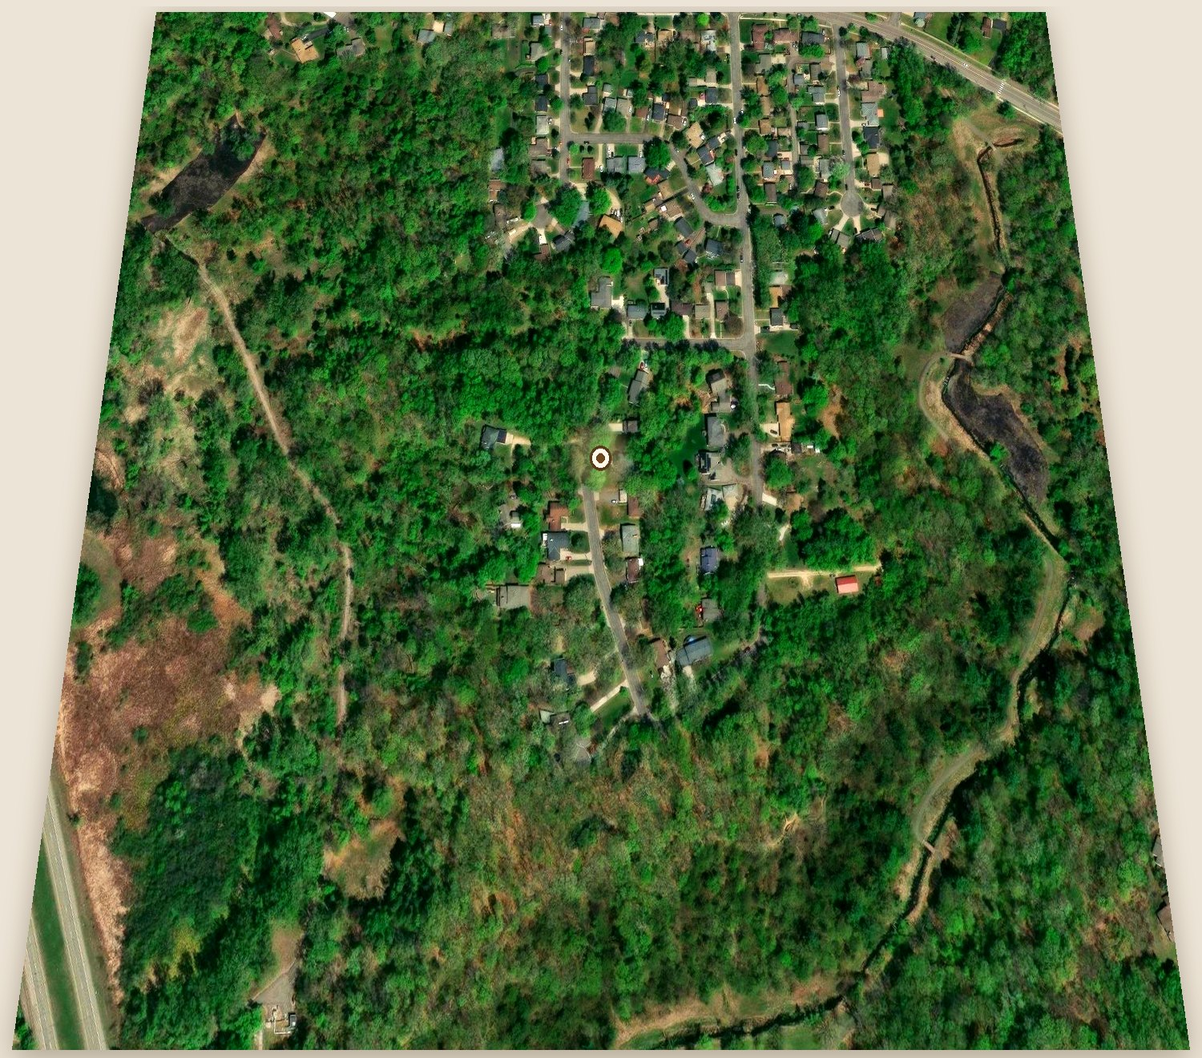
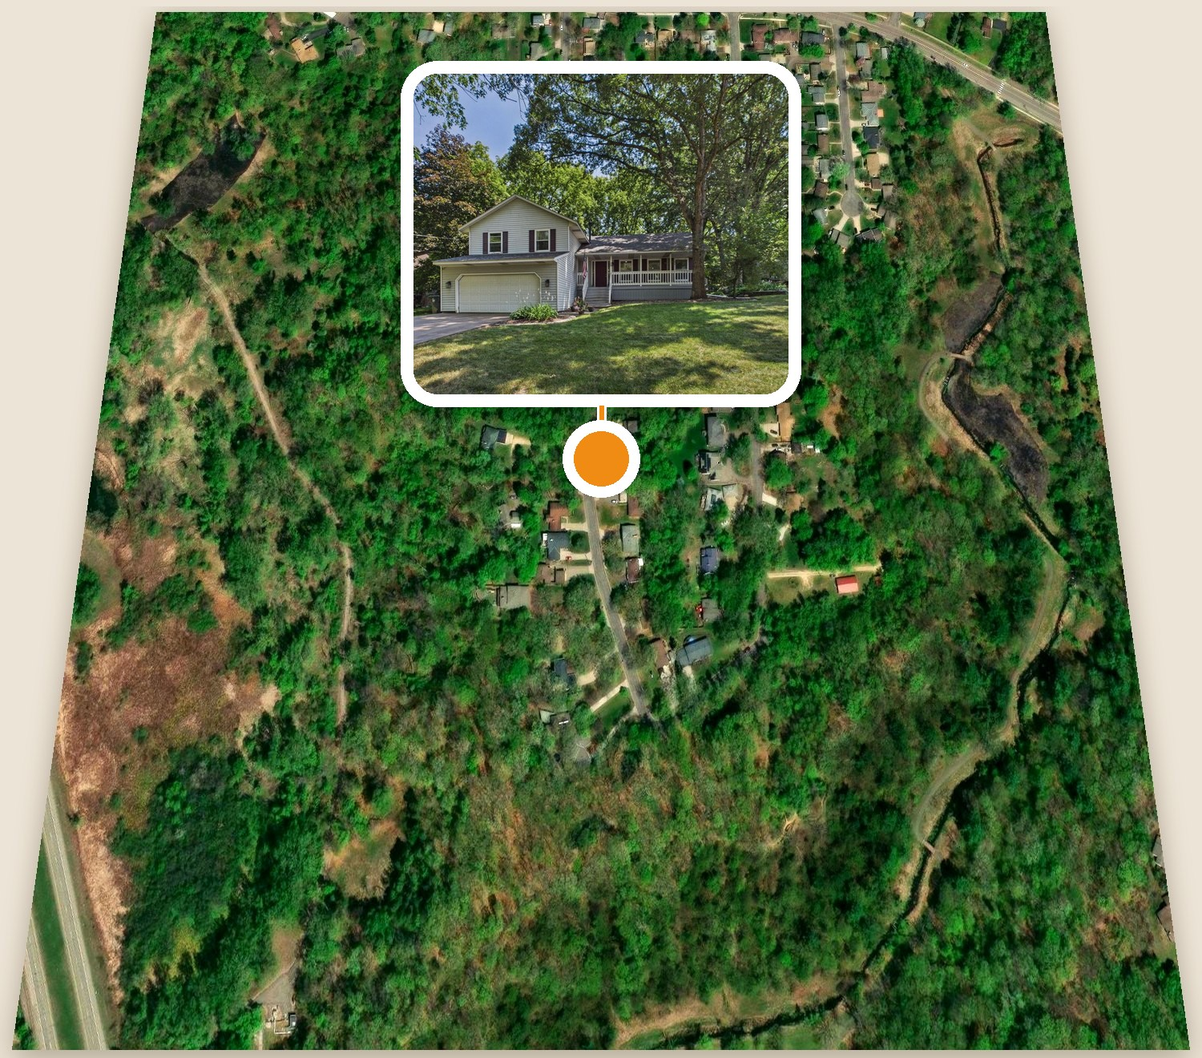
Replace the Battle Creek tour map with a still map (#10)
* Replace the Battle Creek tour map with a still map.

The Leaflet map and the lists under it are gone, so a swipe scrolls the page and each pin jumps to its card. The tour home aerial has a larger callout, and the inside video no longer calls the furniture virtual.

* Show the house itself on the tour home aerial.

The callout uses the front of the house from the page hero, with the amber pin and a short line marking the spot on the map.

* Show the real front of 30 S B St on the tour home map.

The callout was a neighbor from the fall street photo. The thumbnail is now the cream two-story with the garage and porch.

---------

Changed region(s): [[0.3067, 0.0311, 0.6747, 0.4659]]

diff --git a/battle-creek-saint-paul/index.html b/battle-creek-saint-paul/index.html
@@ -874,8 +874,15 @@ section.hero{min-height:0;padding-top:36px;padding-bottom:28px}
 .bc-map-wrap{border:1px solid #C9A877;border-radius:14px;overflow:hidden;background:#E3DAC6}
 .bc-map-bar{background:#1F201C;color:#FAF7EF;font:600 15px/1.35 Inter,sans-serif;padding:12px 16px}
 .bc-map-bar b{color:#C9A877;font-weight:600}
-#bcMap{height:440px;background:#E3DAC6}
-@media(min-width:800px){#bcMap{height:520px}}
+#bcStillMap{width:100%;height:auto;display:block;background:#E4DACA;touch-action:pan-y}
+#bcStillMap a:focus{outline:none}
+#bcStillMap a:focus .lbl,#bcStillMap a:focus circle{stroke:#C9A877}
+#bcStillMap .lbl{font-family:Inter,sans-serif;font-weight:700;font-size:28px;fill:#1F201C;paint-order:stroke;stroke:#fff;stroke-width:6px;stroke-linejoin:round;pointer-events:none}
+#bcStillMap .lbl.light{fill:#FAF7EF;stroke:#2A2116}
+#bcStillMap .num{font-family:Inter,sans-serif;font-weight:700;font-size:26px;fill:#FAF7EF;text-anchor:middle;dominant-baseline:central;pointer-events:none}
+#bcStillMap circle,#bcStillMap path,#bcStillMap text{pointer-events:none}
+#bcStillMap a{cursor:pointer}
+.es-card[id]{scroll-margin-top:76px;scroll-margin-bottom:96px}
 .bc-map-note{font-size:12px;line-height:1.5;color:#4D4839;margin:8px 2px 0}
 .bc-card{display:grid;background:#FAF7EF;border:1px solid #C9A877;border-radius:14px;overflow:hidden;margin-top:14px}
 @media(min-width:800px){.bc-card{grid-template-columns:1.15fr .85fr}}
@@ -920,11 +927,6 @@ section.hero{min-height:0;padding-top:36px;padding-bottom:28px}
 .es-owners figcaption{display:none}
 .bc-paint{display:flex;align-items:center;gap:8px;margin-top:12px;font-size:14px;line-height:1.45;color:#4D4839}
 .swatch{width:22px;height:22px;border-radius:4px;border:1px solid rgba(31,32,28,.25);flex:none}
-.bc-pin{background:#6E5228;color:#FAF7EF;border:2px solid #FAF7EF;border-radius:50%;font:700 13px/24px Inter,sans-serif;text-align:center;box-shadow:0 1px 4px rgba(31,32,28,.4)}
-.bc-pin.food{background:#1F201C}
-.bc-pin.home{background:#C9A877;color:#1F201C;border-radius:4px}
-.bc-pin.on{box-shadow:0 0 0 3px #C9A877}
-#bcMap img{max-width:none}
 @media(max-width:760px){.bc-places{padding-left:16px;padding-right:16px}}
 </style>
 
@@ -1019,24 +1021,91 @@ section.hero{min-height:0;padding-top:36px;padding-bottom:28px}
 
   <div class="bc-map-wrap">
     <div class="bc-map-bar">From 30 South B Street <b>· the places on the tour</b></div>
-    <div id="bcMap" role="region" aria-label="Map of places from the Battle Creek tour"></div>
+    <svg id="bcStillMap" viewBox="0 0 720 760" xmlns="http://www.w3.org/2000/svg" role="group" aria-label="Still map of places on the Battle Creek tour">
+  <rect width="720" height="760" fill="#E4DACA"/>
+  <path d="M337.7,449.5 L327.0,426.8 L342.1,367.0 L342.8,330.6 L331.4,293.0 L295.3,230.7 L400.0,187.1 L397.5,135.1 L406.8,123.5 L406.5,88.8 L426.9,88.5 L427.0,63.5 L405.9,63.4 L406.0,37.8 L626.7,37.9 L626.7,72.0 L626.8,106.1 L626.9,140.1 L627.0,174.2 L627.3,211.8 L627.6,245.8 L627.8,279.9 L628.1,314.0 L628.1,348.0 L628.1,382.0 L628.1,416.0 L628.2,450.0 L628.8,484.1 L629.4,518.1 L629.9,552.0 L630.3,585.9 L630.8,619.6 L631.2,653.4 L631.3,687.2 L631.3,721.0 L598.9,721.1 L566.6,721.1 L545.0,721.2 L541.4,721.2 L534.3,721.2 L530.8,721.2 L501.7,689.8 L437.0,654.3 L389.7,585.6 L370.2,517.5 L337.7,449.5 Z" fill="#6E5228" stroke="#FAF7EF" stroke-width="3"/>
+  <path d="M300,508 C477,332 497,189 517,159" fill="none" stroke="#C9A877" stroke-width="3"/>
+  <circle cx="517.1" cy="158.7" r="7" fill="#F08C14" stroke="#fff" stroke-width="3"/>
+  <rect x="32" y="292" width="276" height="432" rx="18" fill="#F6F1E8" stroke="#C9A877" stroke-width="3"/>
+  <a href="#card-ocampo" aria-label="1, Los Ocampo">
+    <rect x="32" y="292" width="276" height="108" fill="transparent"/>
+    <circle cx="78" cy="346.0" r="24" fill="#1F201C" stroke="#fff" stroke-width="4"/>
+    <text class="num" x="78" y="347.0">1</text>
+    <text class="lbl" x="116" y="354.0">Los Ocampo</text>
+  </a><a href="#card-teahouse" aria-label="2, Tea House">
+    <rect x="32" y="400" width="276" height="108" fill="transparent"/>
+    <circle cx="78" cy="454.0" r="24" fill="#1F201C" stroke="#fff" stroke-width="4"/>
+    <text class="num" x="78" y="455.0">2</text>
+    <text class="lbl" x="116" y="462.0">Tea House</text>
+  </a><a href="#card-sabores" aria-label="3, Sabores">
+    <rect x="32" y="508" width="276" height="108" fill="transparent"/>
+    <circle cx="78" cy="562.0" r="24" fill="#1F201C" stroke="#fff" stroke-width="4"/>
+    <text class="num" x="78" y="563.0">3</text>
+    <text class="lbl" x="116" y="570.0">Sabores</text>
+  </a><a href="#card-hatien" aria-label="4, Ha Tien">
+    <rect x="32" y="616" width="276" height="108" fill="transparent"/>
+    <circle cx="78" cy="670.0" r="24" fill="#1F201C" stroke="#fff" stroke-width="4"/>
+    <text class="num" x="78" y="671.0">4</text>
+    <text class="lbl" x="116" y="678.0">Ha Tien</text>
+  </a>
+
+<a href="#card-regions" aria-label="Regions Hospital">
+    <rect x="40" y="78" width="200" height="64" fill="transparent"/>
+    <circle cx="53.8" cy="108" r="18" fill="#1F201C" opacity="0.18"/>
+    <circle cx="53.8" cy="106" r="15" fill="#fff"/>
+    <circle cx="53.8" cy="106" r="9" fill="#1F201C"/>
+    <text class="lbl" x="80" y="114">Regions</text>
+  </a>
+  <a href="#card-downtown" aria-label="Downtown St. Paul">
+    <rect x="24" y="184" width="220" height="64" fill="transparent"/>
+    <circle cx="38.3" cy="214" r="18" fill="#1F201C" opacity="0.18"/>
+    <circle cx="38.3" cy="212" r="15" fill="#fff"/>
+    <circle cx="38.3" cy="212" r="9" fill="#1F201C"/>
+    <text class="lbl" x="66" y="220">Downtown</text>
+  </a>
+  <a href="#card-park" aria-label="Battle Creek Regional Park">
+    <rect x="560" y="168" width="150" height="100" fill="transparent"/>
+    <circle cx="680.7" cy="254" r="18" fill="#1F201C" opacity="0.18"/>
+    <circle cx="680.7" cy="252" r="15" fill="#fff"/>
+    <circle cx="680.7" cy="252" r="9" fill="#1F201C"/>
+    <text class="lbl light" text-anchor="middle" x="640" y="210">The park</text>
+  </a>
+  <a href="#card-rec" aria-label="Battle Creek Recreation Center">
+    <rect x="500" y="250" width="180" height="100" fill="transparent"/>
+    <circle cx="576.7" cy="271" r="18" fill="#1F201C" opacity="0.18"/>
+    <circle cx="576.7" cy="269" r="15" fill="#fff"/>
+    <circle cx="576.7" cy="269" r="9" fill="#fff"/>
+    <circle cx="576.7" cy="269" r="6" fill="#1F201C"/>
+    <text class="lbl light" x="520" y="328">Rec center</text>
+  </a>
+  <a href="#card-highwood" aria-label="Highwood">
+    <rect x="390" y="440" width="220" height="90" fill="transparent"/>
+    <circle cx="565.6" cy="495" r="18" fill="#1F201C" opacity="0.18"/>
+    <circle cx="565.6" cy="493" r="15" fill="#fff"/>
+    <circle cx="565.6" cy="493" r="9" fill="#1F201C"/>
+    <text class="lbl light" text-anchor="end" x="546" y="470">Highwood</text>
+  </a>
+  <a href="#card-pigs-eye" aria-label="Pig’s Eye Lake">
+    <rect x="360" y="510" width="200" height="90" fill="transparent"/>
+    <circle cx="472.8" cy="536" r="18" fill="#1F201C" opacity="0.18"/>
+    <circle cx="472.8" cy="534" r="15" fill="#fff"/>
+    <circle cx="472.8" cy="534" r="9" fill="#1F201C"/>
+    <text class="lbl light" text-anchor="middle" x="430" y="590">Pig’s Eye</text>
+  </a>
+  <a href="#card-tour-home" aria-label="The tour home, 30 South B Street">
+    <rect x="300" y="168" width="220" height="120" fill="transparent"/>
+    <circle cx="488.4" cy="256" r="38" fill="#1F201C" opacity="0.22"/>
+    <circle cx="488.4" cy="252" r="32" fill="#fff"/>
+    <circle cx="488.4" cy="252" r="22" fill="#F08C14"/>
+    <text class="lbl light" text-anchor="end" x="452" y="200">30 South B</text>
+  </a>
+  <a href="#card-streets" aria-label="The streets around South B">
+    <rect x="310" y="320" width="180" height="52" fill="transparent"/>
+    <text class="lbl light" x="324" y="352">The streets</text>
+  </a>
+</svg>
   </div>
-  <p class="bc-map-note">Drive times are by car from 30 South B Street, the way the tour says them. Map data &copy; OpenStreetMap contributors. Shaded views use USGS and Esri imagery.</p>
-
-  <article class="bc-card" id="bcCard" aria-live="polite">
-    <div class="bc-card-media" id="bcCardMedia"></div>
-    <div class="bc-card-body">
-      <p class="bc-card-kicker" id="bcCardKicker"></p>
-      <h3 id="bcCardTitle"></h3>
-      <p class="bc-card-addr" id="bcCardAddr"></p>
-      <p class="bc-card-text" id="bcCardText"></p>
-    </div>
-  </article>
-
-  <h3 class="bc-legend-title">Suburban Avenue, numbered</h3>
-  <ol class="bc-legend" id="bcFoodLegend"></ol>
-  <h3 class="bc-legend-title">Also on the drive</h3>
-  <div class="bc-also" id="bcAlso"></div>
+  <p class="bc-map-note">Drive times are by car from 30 South B Street, the way the tour says them. Shaded views use USGS and Esri imagery.</p>
 </section>
 
 <section class="es" id="the-places">
@@ -1055,7 +1124,7 @@ section.hero{min-height:0;padding-top:36px;padding-bottom:28px}
         <p class="es-line">If you&rsquo;re curious about this house, let me know.</p>
       </div>
     </article>
-    <article class="es-card">
+    <article class="es-card" id="card-streets">
       <div class="es-media"><img src="/battle-creek-saint-paul/img/battle-creek-fall-street-2.jpg" width="1920" height="1080" alt="Fall trees and wide lawns on a Battle Creek street" loading="lazy" decoding="async"></div>
       <div class="es-body">
         <h3 class="es-name">The streets around South B</h3>
@@ -1063,7 +1132,7 @@ section.hero{min-height:0;padding-top:36px;padding-bottom:28px}
         <p class="es-line">Big lots. Old oaks. Fall color.</p>
       </div>
     </article>
-    <article class="es-card">
+    <article class="es-card" id="card-park">
       <div class="es-media"><img src="/battle-creek-saint-paul/img/battle-creek-park-winter-trail.jpg" width="1800" height="1200" alt="A snowy trail through the trees at Battle Creek Regional Park" loading="lazy" decoding="async"></div>
       <div class="es-body">
         <h3 class="es-name">Battle Creek Regional Park</h3>
@@ -1071,7 +1140,7 @@ section.hero{min-height:0;padding-top:36px;padding-bottom:28px}
         <p class="es-line">Trails, skiing, and a sledding hill.</p>
       </div>
     </article>
-    <article class="es-card">
+    <article class="es-card" id="card-rec">
       <div class="es-media"><img src="/battle-creek-saint-paul/img/battle-creek-rec-center.jpg" width="1580" height="889" alt="Battle Creek Community Recreation Center from above" loading="lazy" decoding="async"></div>
       <div class="es-body">
         <h3 class="es-name">Battle Creek Recreation Center</h3>
@@ -1079,7 +1148,7 @@ section.hero{min-height:0;padding-top:36px;padding-bottom:28px}
         <p class="es-line">The rec center and the neighborhood schools.</p>
       </div>
     </article>
-    <article class="es-card">
+    <article class="es-card" id="card-regions">
       <div class="es-media"><img src="/battle-creek-saint-paul/img/regions-hospital.jpg" width="1800" height="1212" alt="The Regions Hospital building and its HealthPartners sign" loading="lazy" decoding="async"></div>
       <div class="es-body">
         <h3 class="es-name">Regions Hospital</h3>
@@ -1087,7 +1156,7 @@ section.hero{min-height:0;padding-top:36px;padding-bottom:28px}
         <p class="es-line">St. Paul&rsquo;s Level I trauma center.</p>
       </div>
     </article>
-    <article class="es-card es-wide">
+    <article class="es-card es-wide" id="card-downtown">
       <div class="es-media es-media-wide"><img src="/battle-creek-saint-paul/img/downtown-st-paul-skyline.jpg" width="1800" height="1001" alt="Downtown St. Paul skyline, seen across the Mississippi" loading="lazy" decoding="async"></div>
       <div class="es-body">
         <h3 class="es-name">Downtown St. Paul</h3>
@@ -1105,7 +1174,7 @@ section.hero{min-height:0;padding-top:36px;padding-bottom:28px}
     <p class="section-body">Vietnamese, Mexican, Sichuan and Latin, all on one stretch of Suburban Avenue.</p>
   </div>
   <div class="es-grid">
-    <article class="es-card">
+    <article class="es-card" id="card-ocampo">
       <div class="es-media"><img src="/battle-creek-saint-paul/img/los-ocampo-storefront.jpg" width="1800" height="1200" alt="The Los Ocampo taqueria sign" loading="lazy" decoding="async"></div>
       <div class="es-thumbs">
         <img src="/battle-creek-saint-paul/img/los-ocampo-food.jpg" width="1800" height="797" alt="Plates of food from Los Ocampo" loading="lazy" decoding="async">
@@ -1116,7 +1185,7 @@ section.hero{min-height:0;padding-top:36px;padding-bottom:28px}
         <p class="es-line">A long-running Mexican restaurant.</p>
       </div>
     </article>
-    <article class="es-card">
+    <article class="es-card" id="card-teahouse">
       <div class="es-media"><img src="/battle-creek-saint-paul/img/tea-house-fish.jpg" width="1254" height="1254" alt="A bowl of fish in a red chile sauce" loading="lazy" decoding="async"></div>
       <div class="es-thumbs">
         <img src="/battle-creek-saint-paul/img/tea-house-noodles.jpg" width="1254" height="1254" alt="A plate of noodles with meat and vegetables" loading="lazy" decoding="async">
@@ -1128,7 +1197,7 @@ section.hero{min-height:0;padding-top:36px;padding-bottom:28px}
         <p class="es-line">Sichuan cooking, and dim sum on the weekend.</p>
       </div>
     </article>
-    <article class="es-card">
+    <article class="es-card" id="card-sabores">
       <div class="es-media"><img src="/battle-creek-saint-paul/img/sabores-tacos.jpg" width="1080" height="1080" alt="Tacos on a plate with the Sabores Fresh Market mark" loading="lazy" decoding="async"></div>
       <div class="es-thumbs">
         <img src="/battle-creek-saint-paul/img/sabores-butcher.jpg" width="1080" height="1080" alt="A butcher counter with hanging cuts of meat" loading="lazy" decoding="async">
@@ -1140,7 +1209,7 @@ section.hero{min-height:0;padding-top:36px;padding-bottom:28px}
         <p class="es-line">A Latin grocery. Butcher, bakery, produce, and a small restaurant.</p>
       </div>
     </article>
-    <article class="es-card es-wide">
+    <article class="es-card es-wide" id="card-hatien">
       <div class="es-media"><img src="/battle-creek-saint-paul/img/ha-tien-owners-son-ne-dao.jpg" width="1240" height="815" alt="Son and Ne Dao at Ha Tien" loading="lazy" decoding="async"></div>
       <div class="es-body">
         <h3 class="es-name">4 &middot; Ha Tien Super Market</h3>
@@ -1263,9 +1332,6 @@ section.hero{min-height:0;padding-top:36px;padding-bottom:28px}
   </ul>
 </nav>
 
-<link rel="stylesheet" href="https://cdnjs.cloudflare.com/ajax/libs/leaflet/1.9.4/leaflet.css" />
-<script src="https://cdnjs.cloudflare.com/ajax/libs/leaflet/1.9.4/leaflet.js"></script>
-<script type="application/json" id="bcPlacesData">[{"id": "home", "name": "30 South B Street", "short": "30 B", "kicker": "The tour home", "addr": "30 S B St, St. Paul 55106", "drive": "", "lat": 44.94035, "lng": -93.02669, "text": "If you're curious about this house, let me know.", "photos": [{"src": "/battle-creek-saint-paul/img/30-south-b-map.jpg", "alt": "A shaded map of 30 South B Street and the blocks around it"}]}, {"id": "streets", "name": "Battle Creek streets", "short": "The streets", "kicker": "Around South B", "addr": "Around S B St", "drive": "", "lat": 44.9404, "lng": -93.0267, "text": "Big lots. Old oaks. Fall color.", "photos": [{"src": "/battle-creek-saint-paul/img/battle-creek-fall-street-1.jpg", "alt": "Fall trees along a Battle Creek street"}, {"src": "/battle-creek-saint-paul/img/battle-creek-fall-street-2.jpg", "alt": "Fall trees and wide lawns on a Battle Creek street"}]}, {"id": "park", "name": "Battle Creek Regional Park", "short": "The park", "kicker": "About 5 min", "addr": "Lower Afton Rd and McKnight Rd", "drive": "about 5 min", "lat": 44.94037, "lng": -92.9966, "text": "Trails, skiing, and a sledding hill.", "photos": [{"src": "/battle-creek-saint-paul/img/battle-creek-park-winter-trail.jpg", "alt": "A snowy trail through the trees at Battle Creek Regional Park"}]}, {"id": "rec", "name": "Battle Creek Recreation Center", "short": "Rec center", "kicker": "Close by", "addr": "75 Winthrop St. S., Saint Paul, MN 55119", "drive": "", "lat": 44.9386, "lng": -93.01286, "text": "The rec center and the neighborhood schools.", "photos": [{"src": "/battle-creek-saint-paul/img/battle-creek-rec-center.jpg", "alt": "Battle Creek Community Recreation Center from above"}]}, {"id": "regions", "name": "Regions Hospital", "short": "Regions", "kicker": "For work", "addr": "640 Jackson St", "drive": "about 9 min", "lat": 44.95585, "lng": -93.09469, "text": "St. Paul's Level I trauma center.", "photos": [{"src": "/battle-creek-saint-paul/img/regions-hospital.jpg", "alt": "The Regions Hospital building and its HealthPartners sign"}]}, {"id": "downtown", "name": "Downtown St. Paul", "short": "Downtown", "kicker": "About 11 min", "addr": "Downtown", "drive": "about 11 min", "lat": 44.94463, "lng": -93.09711, "text": "A quick hop to I-94.", "photos": [{"src": "/battle-creek-saint-paul/img/downtown-st-paul-skyline.jpg", "alt": "The downtown St. Paul skyline across the river"}]}, {"id": "ocampo", "num": 1, "name": "Los Ocampo", "short": "Los Ocampo", "kicker": "Nearby option", "addr": "1751 Suburban Ave", "drive": "about 3 min", "lat": 44.94979, "lng": -93.02624, "text": "A long-running Mexican restaurant.", "photos": [{"src": "/battle-creek-saint-paul/img/los-ocampo-storefront.jpg", "alt": "The Los Ocampo taqueria sign"}, {"src": "/battle-creek-saint-paul/img/los-ocampo-food.jpg", "alt": "A spread of tacos, seafood, and plates from Los Ocampo"}]}, {"id": "teahouse", "num": 2, "name": "Tea House", "short": "Tea House", "kicker": "Nearby option", "addr": "1676 Suburban Ave", "drive": "about 3 min", "lat": 44.95105, "lng": -93.02804, "text": "Sichuan cooking, and weekend dim sum.", "photos": [{"src": "/battle-creek-saint-paul/img/tea-house-fish.jpg", "alt": "A bowl of fish in a red chile sauce"}, {"src": "/battle-creek-saint-paul/img/tea-house-noodles.jpg", "alt": "A plate of noodles with meat and vegetables"}, {"src": "/battle-creek-saint-paul/img/tea-house-chicken.jpg", "alt": "Sesame chicken with broccoli"}]}, {"id": "sabores", "num": 3, "name": "Sabores Fresh Market", "short": "Sabores", "kicker": "Nearby option", "addr": "1990 Suburban Ave", "drive": "about 4 min", "lat": 44.9498, "lng": -93.01648, "text": "Butcher, bakery, produce, and a small restaurant.", "photos": [{"src": "/battle-creek-saint-paul/img/sabores-tacos.jpg", "alt": "Tacos on a plate with the Sabores Fresh Market mark"}, {"src": "/battle-creek-saint-paul/img/sabores-butcher.jpg", "alt": "A butcher counter with hanging cuts of meat"}, {"src": "/battle-creek-saint-paul/img/sabores-bakery.jpg", "alt": "Pastries in a bakery case"}]}, {"id": "hatien", "num": 4, "name": "Ha Tien Super Market", "short": "Ha Tien", "kicker": "Suburban Avenue", "addr": "1959 Suburban Ave", "drive": "about 4 min", "lat": 44.95045, "lng": -93.01799, "text": "Son & Ne Dao, owners since 1996.", "photos": [{"src": "/battle-creek-saint-paul/img/ha-tien-owners-son-ne-dao.jpg", "alt": "Son and Ne Dao at Ha Tien"}]}, {"id": "pigseye", "name": "Pig's Eye Lake", "short": "Pig's Eye", "kicker": "The creek runs here", "addr": "Southwest of the neighborhood", "drive": "", "lat": 44.91053, "lng": -93.02913, "text": "Pelicans and bald eagles.", "photos": [{"src": "/battle-creek-saint-paul/img/pigs-eye-lake-pelicans.jpg", "alt": "White pelicans lifting off the water at Pig's Eye Lake"}]}, {"id": "highwood", "name": "Highwood", "short": "Highwood", "kicker": "Just south", "addr": "Highwood Hills", "drive": "", "lat": 44.91491, "lng": -93.0146, "text": "Highwood Hills, in fall.", "photos": [{"src": "/battle-creek-saint-paul/img/highwood.jpg", "alt": "Highwood Hills Recreation Center and park in fall"}]}]</script>
 <script>
 (function () {
   function mountVideos() {
@@ -1286,112 +1352,6 @@ section.hero{min-height:0;padding-top:36px;padding-bottom:28px}
   }
   if (document.readyState === 'loading') document.addEventListener('DOMContentLoaded', mountVideos);
   else mountVideos();
-
-  var places = [];
-  try { places = JSON.parse(document.getElementById('bcPlacesData').textContent); } catch (e) { places = []; }
-  var byId = {};
-  places.forEach(function (p) { byId[p.id] = p; });
-  var current = 'streets';
-  var markers = {};
-  var map;
-
-  function esc(s) {
-    return String(s || '').replace(/[&<>"]/g, function (c) {
-      return {'&':'&amp;','<':'&lt;','>':'&gt;','"':'&quot;'}[c];
-    });
-  }
-
-  function show(id, fly) {
-    var p = byId[id];
-    if (!p) return;
-    current = id;
-    var media = document.getElementById('bcCardMedia');
-    if (p.photos && p.photos.length) {
-      var main = p.photos[0];
-      var thumbs = p.photos.map(function (ph, i) {
-        return '<button type="button" class="bc-thumb' + (i === 0 ? ' on' : '') + '" data-src="' + esc(ph.src) + '" data-alt="' + esc(ph.alt) + '"><img src="' + esc(ph.src) + '" alt=""></button>';
-      }).join('');
-      media.innerHTML = '<img class="bc-card-photo" id="bcCardPhoto" src="' + esc(main.src) + '" alt="' + esc(main.alt) + '">' +
-        (p.photos.length > 1 ? '<div class="bc-thumbs">' + thumbs + '</div>' : '');
-    } else {
-      media.innerHTML = '<div class="bc-card-empty"><span>' + esc(p.short || p.name) + '</span></div>';
-    }
-    document.getElementById('bcCardKicker').textContent = p.kicker || '';
-    document.getElementById('bcCardTitle').textContent = p.name;
-    var addr = p.addr || '';
-    if (p.drive) addr = addr ? (addr + ' · ' + p.drive) : p.drive;
-    document.getElementById('bcCardAddr').textContent = addr;
-    document.getElementById('bcCardText').textContent = p.text || '';
-    document.querySelectorAll('#bcFoodLegend button, #bcAlso button').forEach(function (b) {
-      var on = b.getAttribute('data-id') === id;
-      b.classList.toggle('on', on);
-      if (on) b.setAttribute('aria-current', 'true'); else b.removeAttribute('aria-current');
-    });
-    Object.keys(markers).forEach(function (k) {
-      var el = markers[k].getElement();
-      if (el) el.classList.toggle('on', k === id);
-    });
-    if (fly && map && p.lat != null) {
-      map.flyTo([p.lat, p.lng], 16, {duration: 0.55});
-    }
-  }
-
-  document.getElementById('bcCard').addEventListener('click', function (e) {
-    var b = e.target.closest('.bc-thumb');
-    if (!b) return;
-    var img = document.getElementById('bcCardPhoto');
-    if (!img) return;
-    img.src = b.getAttribute('data-src');
-    img.alt = b.getAttribute('data-alt') || '';
-    document.querySelectorAll('.bc-thumb').forEach(function (t) { t.classList.toggle('on', t === b); });
-  });
-
-  var food = document.getElementById('bcFoodLegend');
-  var also = document.getElementById('bcAlso');
-  places.forEach(function (p) {
-    var btn = document.createElement('button');
-    btn.type = 'button';
-    btn.setAttribute('data-id', p.id);
-    if (p.num) {
-      btn.innerHTML = '<span class="num">' + p.num + '</span>' + esc(p.name);
-      food.appendChild(document.createElement('li')).appendChild(btn);
-    } else {
-      btn.textContent = p.name;
-      also.appendChild(btn);
-    }
-    btn.addEventListener('click', function () { show(p.id, true); });
-  });
-
-  function bootMap() {
-    if (!window.L || !places.length) return;
-    map = L.map('bcMap', {scrollWheelZoom: false});
-    L.tileLayer('https://tile.openstreetmap.org/{z}/{x}/{y}.png', {
-      maxZoom: 19,
-      attribution: '&copy; OpenStreetMap'
-    }).addTo(map);
-    var bounds = [];
-    places.forEach(function (p) {
-      if (p.lat == null) return;
-      bounds.push([p.lat, p.lng]);
-      var cls = 'bc-pin' + (p.num ? ' food' : '') + (p.id === 'home' ? ' home' : '');
-      var html = p.num ? String(p.num) : '';
-      var icon = L.divIcon({
-        className: cls,
-        html: html,
-        iconSize: p.num ? [28, 28] : [16, 16],
-        iconAnchor: p.num ? [14, 14] : [8, 8]
-      });
-      var m = L.marker([p.lat, p.lng], {icon: icon, keyboard: true, title: p.name, alt: p.name});
-      m.on('click', function () { show(p.id, false); });
-      m.addTo(map);
-      markers[p.id] = m;
-    });
-    if (bounds.length) map.fitBounds(bounds, {padding: [28, 28], maxZoom: 13});
-    show(current, false);
-    setTimeout(function () { map.invalidateSize(); }, 200);
-  }
-  show('streets', false);
-  bootMap();
 })();
 </script>
 
@@ -1435,10 +1395,9 @@ else{b.disabled=false;err.textContent='That didn\u2019t go through. Please try a
 <nav class="sv-bar" aria-label="Quick contact"><a class="sv-main" href="#sv-offer">What’s my home worth?</a><a href="sms:+19522583100">Text Geoffrey</a></nav>
 <!-- SV:END -->
 
-<div class="tour-videos vic-video-end" id="bcAiVideo" data-youtube-id="bkLFnkBuig0" data-youtube-title="A furnished look inside 30 South B Street">
+<div class="tour-videos vic-video-end" id="bcInsideVideo" data-youtube-id="bkLFnkBuig0" data-youtube-title="Another look inside 30 S B St">
   <div class="vic-video">
-    <p class="tour-label">A furnished look inside</p>
-    <p class="section-body" style="text-align:center;max-width:40rem;margin:0 auto 12px">The house, shown with virtual furniture.</p>
+    <p class="tour-label">Another look inside</p>
     <div class="video-frame video-placeholder"></div>
   </div>
 </div>
